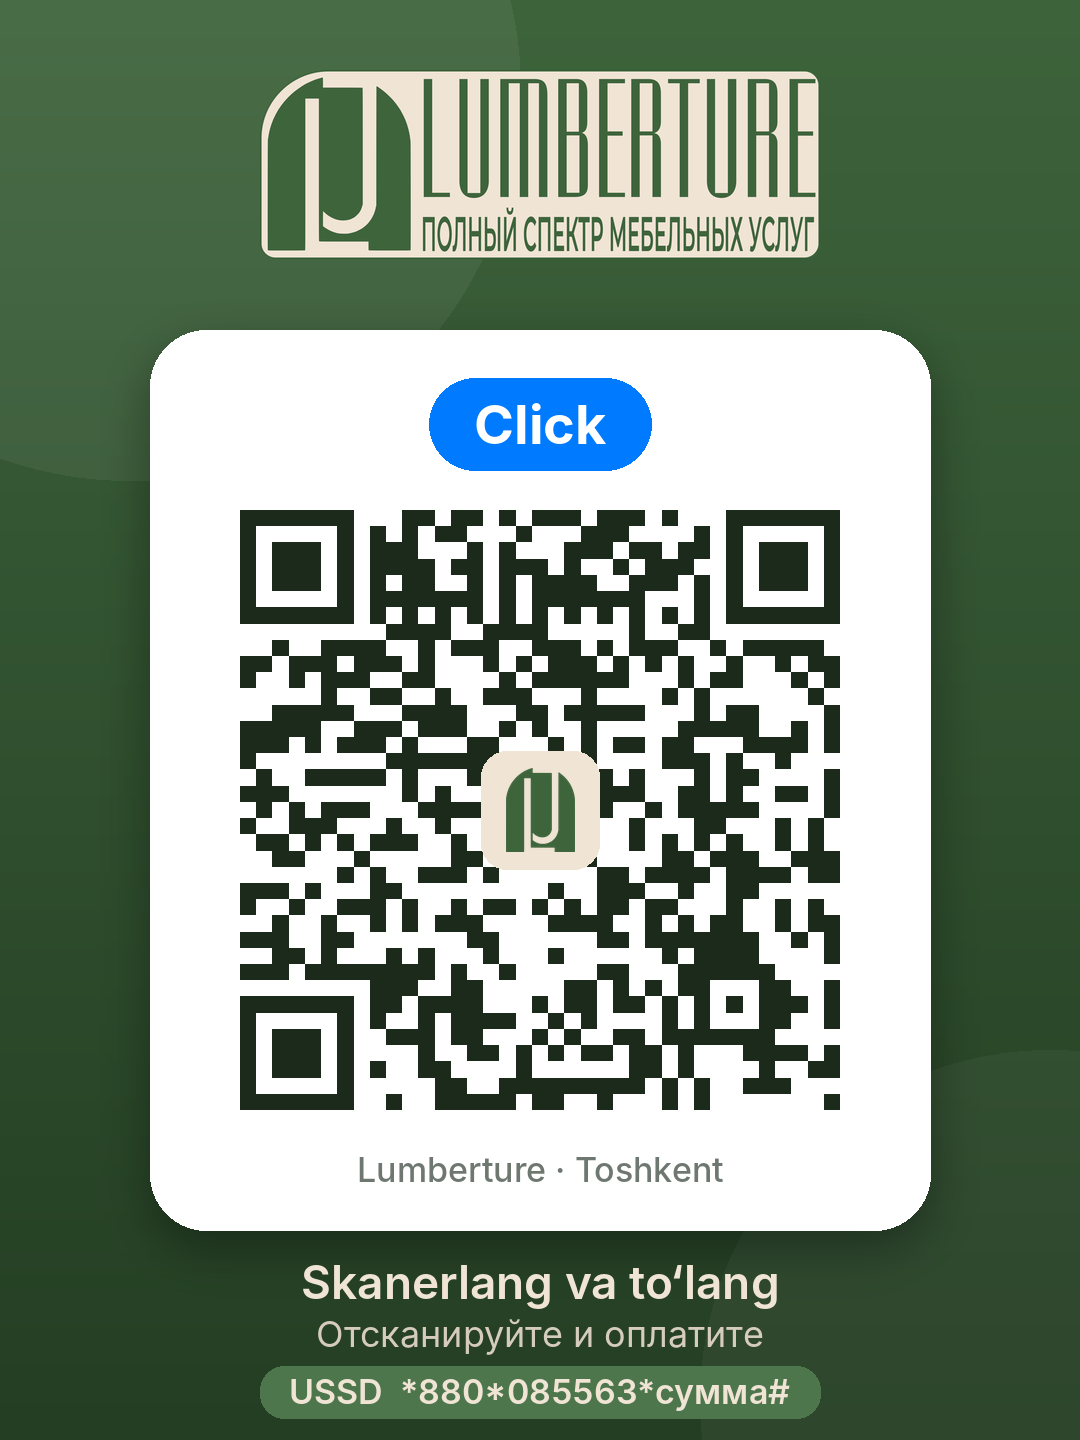
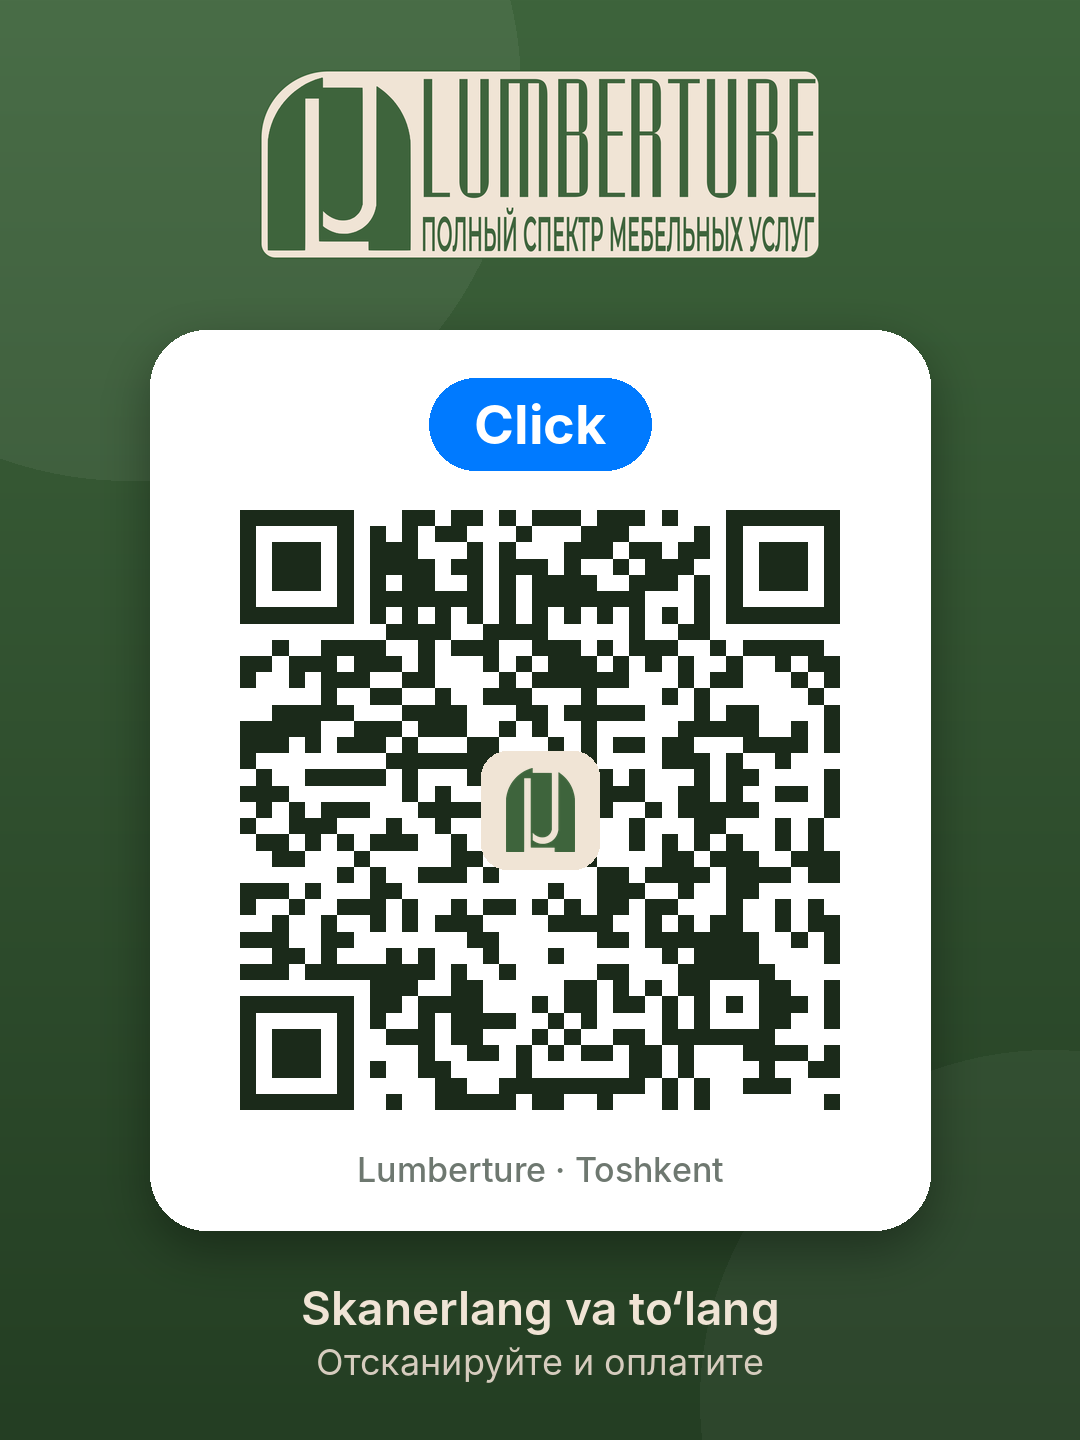
fix410: Payme / Click — изоҳ альбомнинг ичида, карточкалар симметрик
- Ҳаволалар ва изоҳ альбомнинг caption'ида (биринчи расмда) — Telegram уни альбом остида, расмлар билан бир хил энда кўрсатади.
- Click карточкасидан USSD белгиси олиб ташланди (у изоҳда бор) — иккала карточка бир хил.
- Тестлар fails=0.

Claude-Session: https://claude.ai/code/session_01DsNrWccjs2Qr6kg4g3g36u

Changed region(s): [[0.2444, 0.875, 0.7639, 1.0]]

diff --git a/raspil_bot.py b/raspil_bot.py
@@ -142,17 +142,23 @@ def send_pay(chat, rw):
     folder = os.path.join(os.path.dirname(os.path.abspath(__file__)), "static", "pay")
     paths = [os.path.join(folder, fn) for fn, _, _ in PAY_CARDS]
     links = "\n".join(f"💳 {name}: {url}" for _, name, url in PAY_CARDS) + "\nClick USSD: *880*085563*сумма#"
-    if not send_album(chat, paths):                    # альбом бўлмаса — алоҳида расмлар
+    cap = f"{links}\n\n{PAY_NOTE}"
+    if not send_album(chat, paths, cap):               # изоҳ альбомнинг ўзида — расмлар билан бир хил энда (эгаси, 23.10)
         for pth, (_, name, _) in zip(paths, PAY_CARDS):
             send_photo(chat, pth, f"💳 {name}")
-    send(chat, f"{links}\n\n{PAY_NOTE}", kb_for(rw))
+        send(chat, cap, kb_for(rw))
 
 
-def send_album(chat, paths):
-    """Бир нечта расм — битта альбом (sendMediaGroup). -> натижа ёки None."""
+def send_album(chat, paths, caption=""):
+    """Бир нечта расм — битта альбом (sendMediaGroup); caption — биринчи расмда, Telegram уни альбом остида, шу энда кўрсатади.
+    -> натижа ёки None."""
     if not token() or not all(os.path.exists(p_) for p_ in paths):
         return None
+    import botlang
+    cap = botlang.prepare_params("work", "sendPhoto", {"chat_id": chat, "caption": caption})["caption"] if caption else ""
     media = [{"type": "photo", "media": f"attach://p{i}"} for i in range(len(paths))]
+    if cap:
+        media[0]["caption"] = cap[:1000]
     fhs = []
     try:
         fhs = [open(p_, "rb") for p_ in paths]

diff --git a/tests/test_pay_qr.py b/tests/test_pay_qr.py
@@ -35,16 +35,20 @@ with A.app.app_context():
         sent.clear(); photos.clear()
         B.on_message(msg("/start", uid))
         assert B.B_PAY in btns(msgs()[-1]), (uid, btns(msgs()[-1]))
+        sent.clear()
         B.on_message(msg(B.B_PAY, uid))
         assert [p[0] for p in photos] == ["sendMediaGroup"] and photos[0][2] == ["payme.png", "click.png"], (uid, photos)
-        t = msgs()[-1]["text"]
+        import json as _j
+        md = _j.loads(photos[0][1]["media"]); t = md[0]["caption"]
+        assert "caption" not in md[1] and not msgs(), (md, msgs())           # изоҳ альбомнинг ичида, алоҳида хабар йўқ
         assert "transfer.paycom.uz/69e07fe5bbf621e9322a28a6" in t and "indoor.click.uz/pay?id=085563" in t and "*880*085563*" in t, t
-        assert "кассага" in t and B.B_PAY in btns(msgs()[-1]), (uid, msgs()[-1])
+        assert "кассага" in t, t
     # рус тилида: тугма босилса ҳам ишлайди, изоҳ таржима қилинган
     BL.set_lang("work", 902, "ru")
     sent.clear(); photos.clear()
     B.on_message(msg("💳 Payme / Click", 902))
-    assert len(photos) == 1 and "Деньги поступают прямо в кассу" in msgs()[-1]["text"], msgs()[-1]
+    import json as _j
+    assert len(photos) == 1 and "Деньги поступают прямо в кассу" in _j.loads(photos[0][1]["media"])[0]["caption"], photos
     # тўлов келди → QR кўрсатган ишчининг ботига
     import epay
     from datetime import datetime, timedelta
